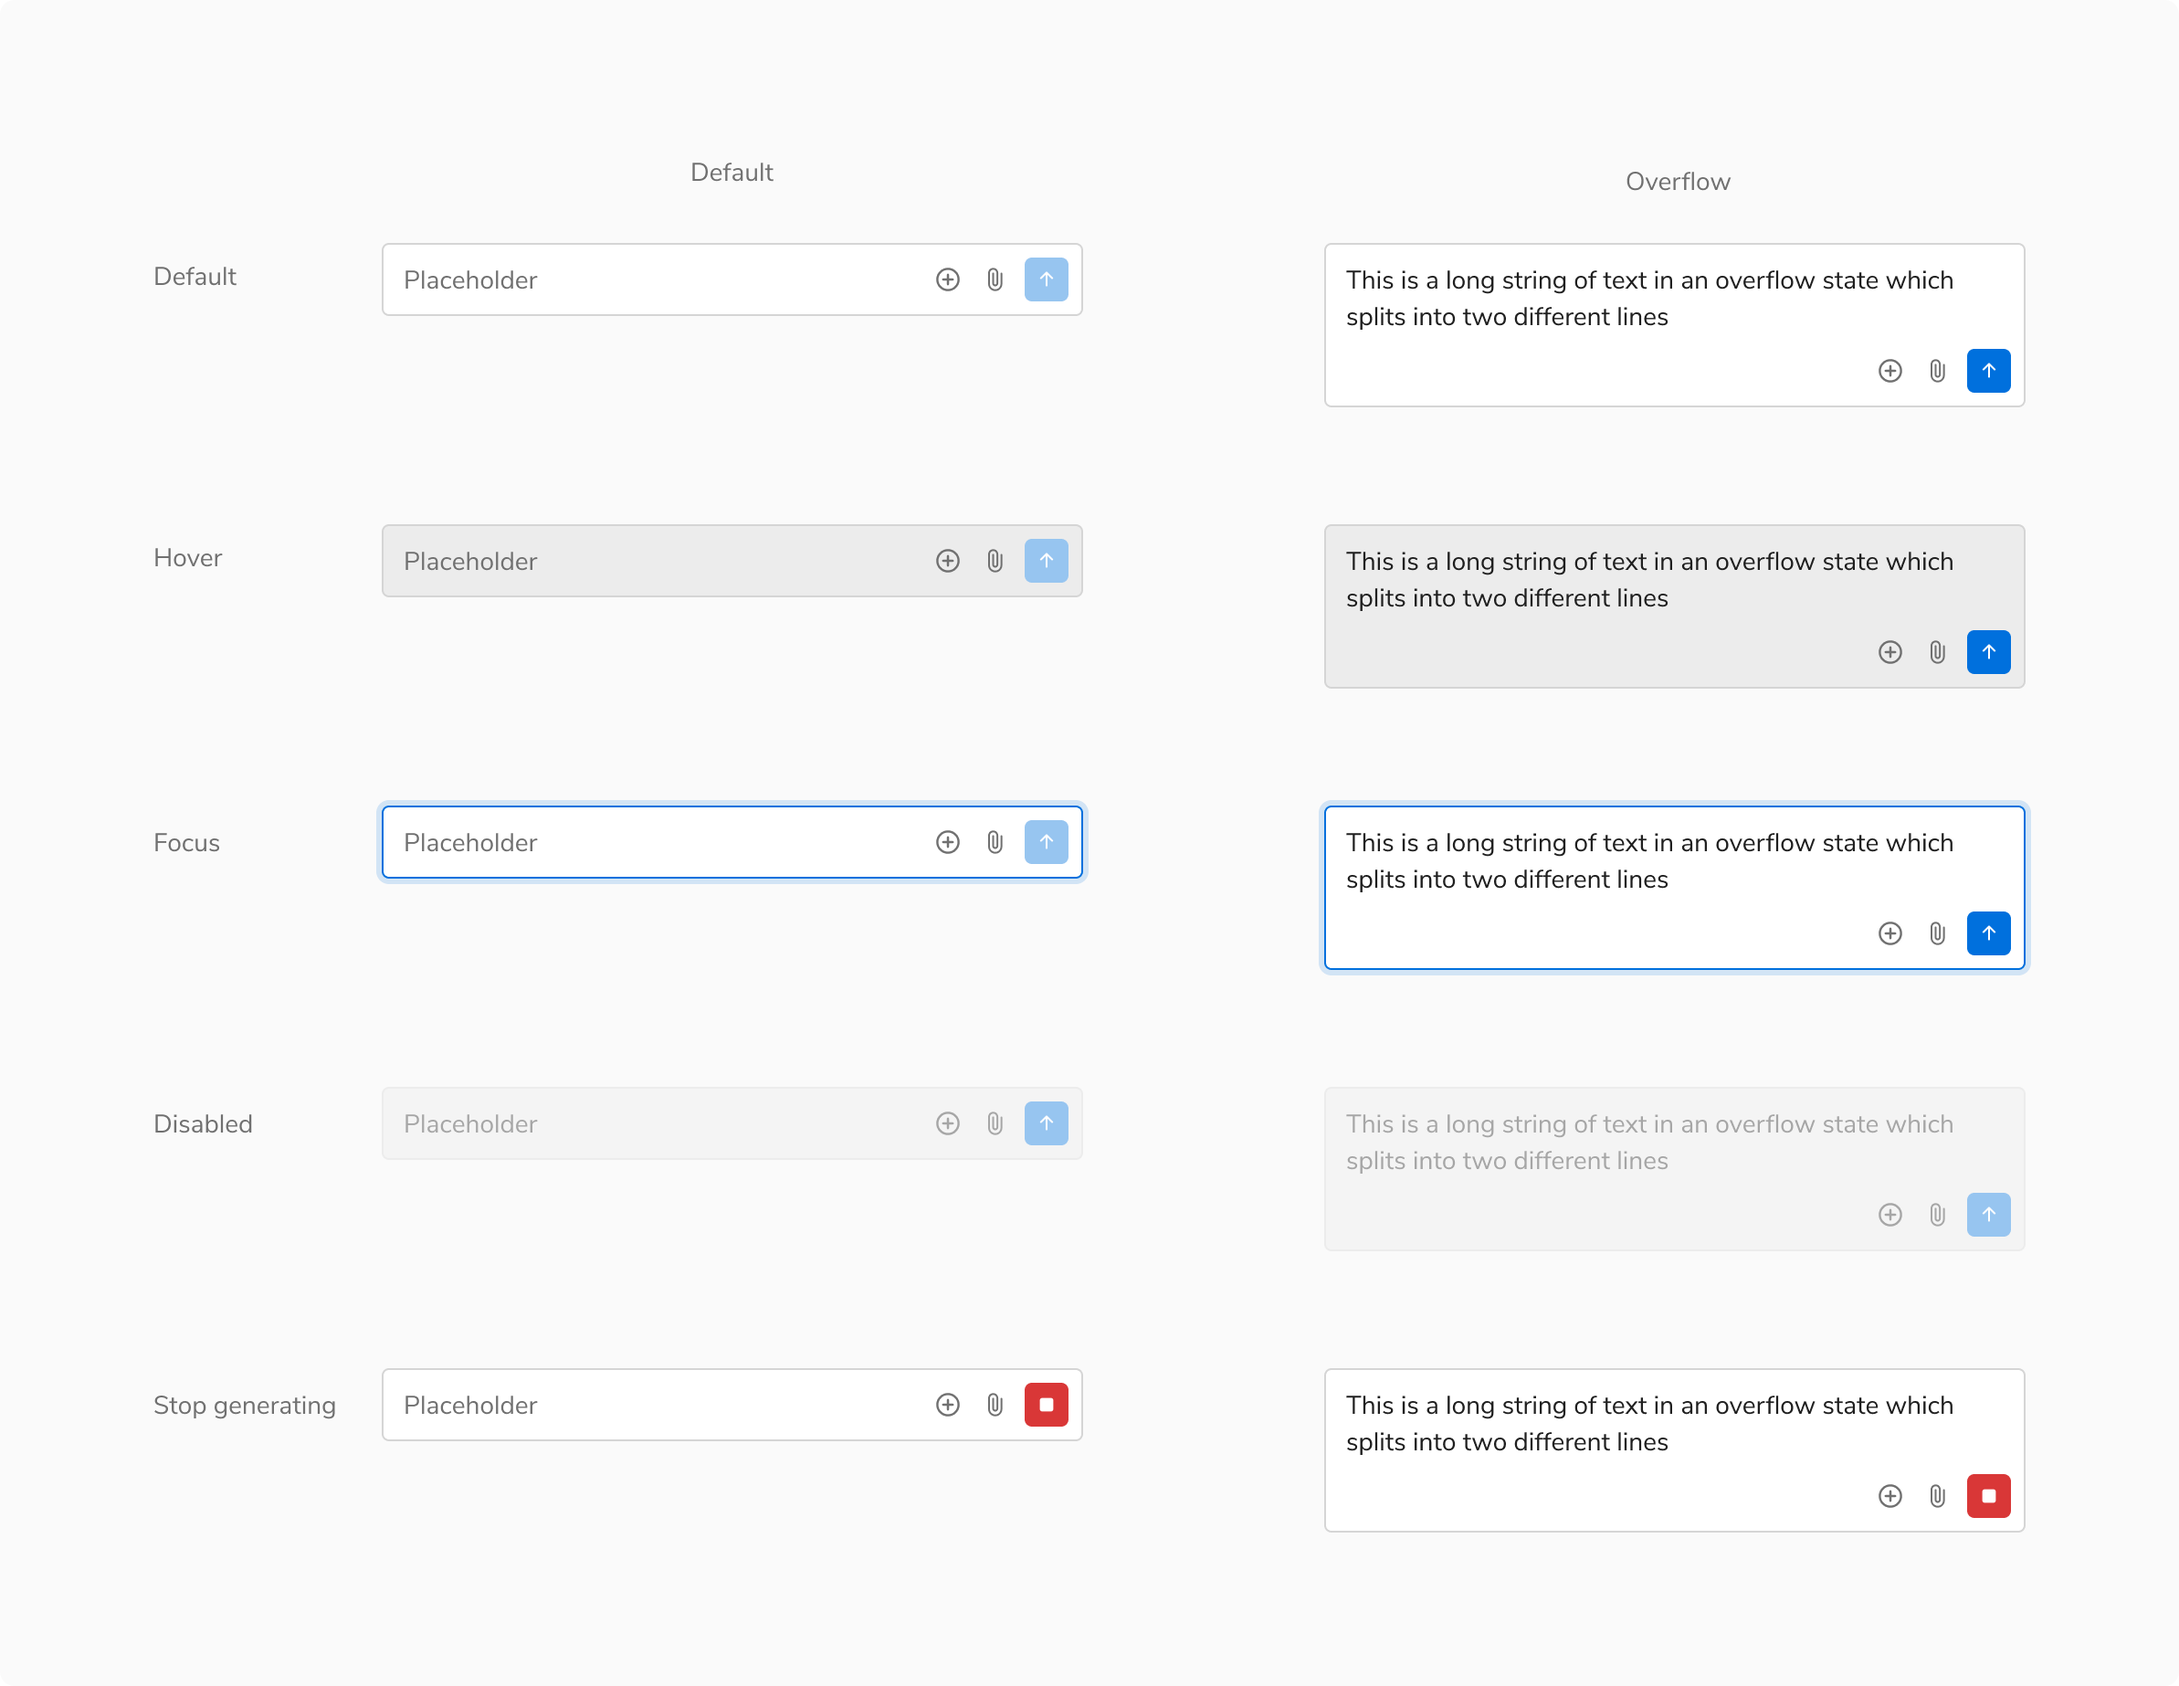
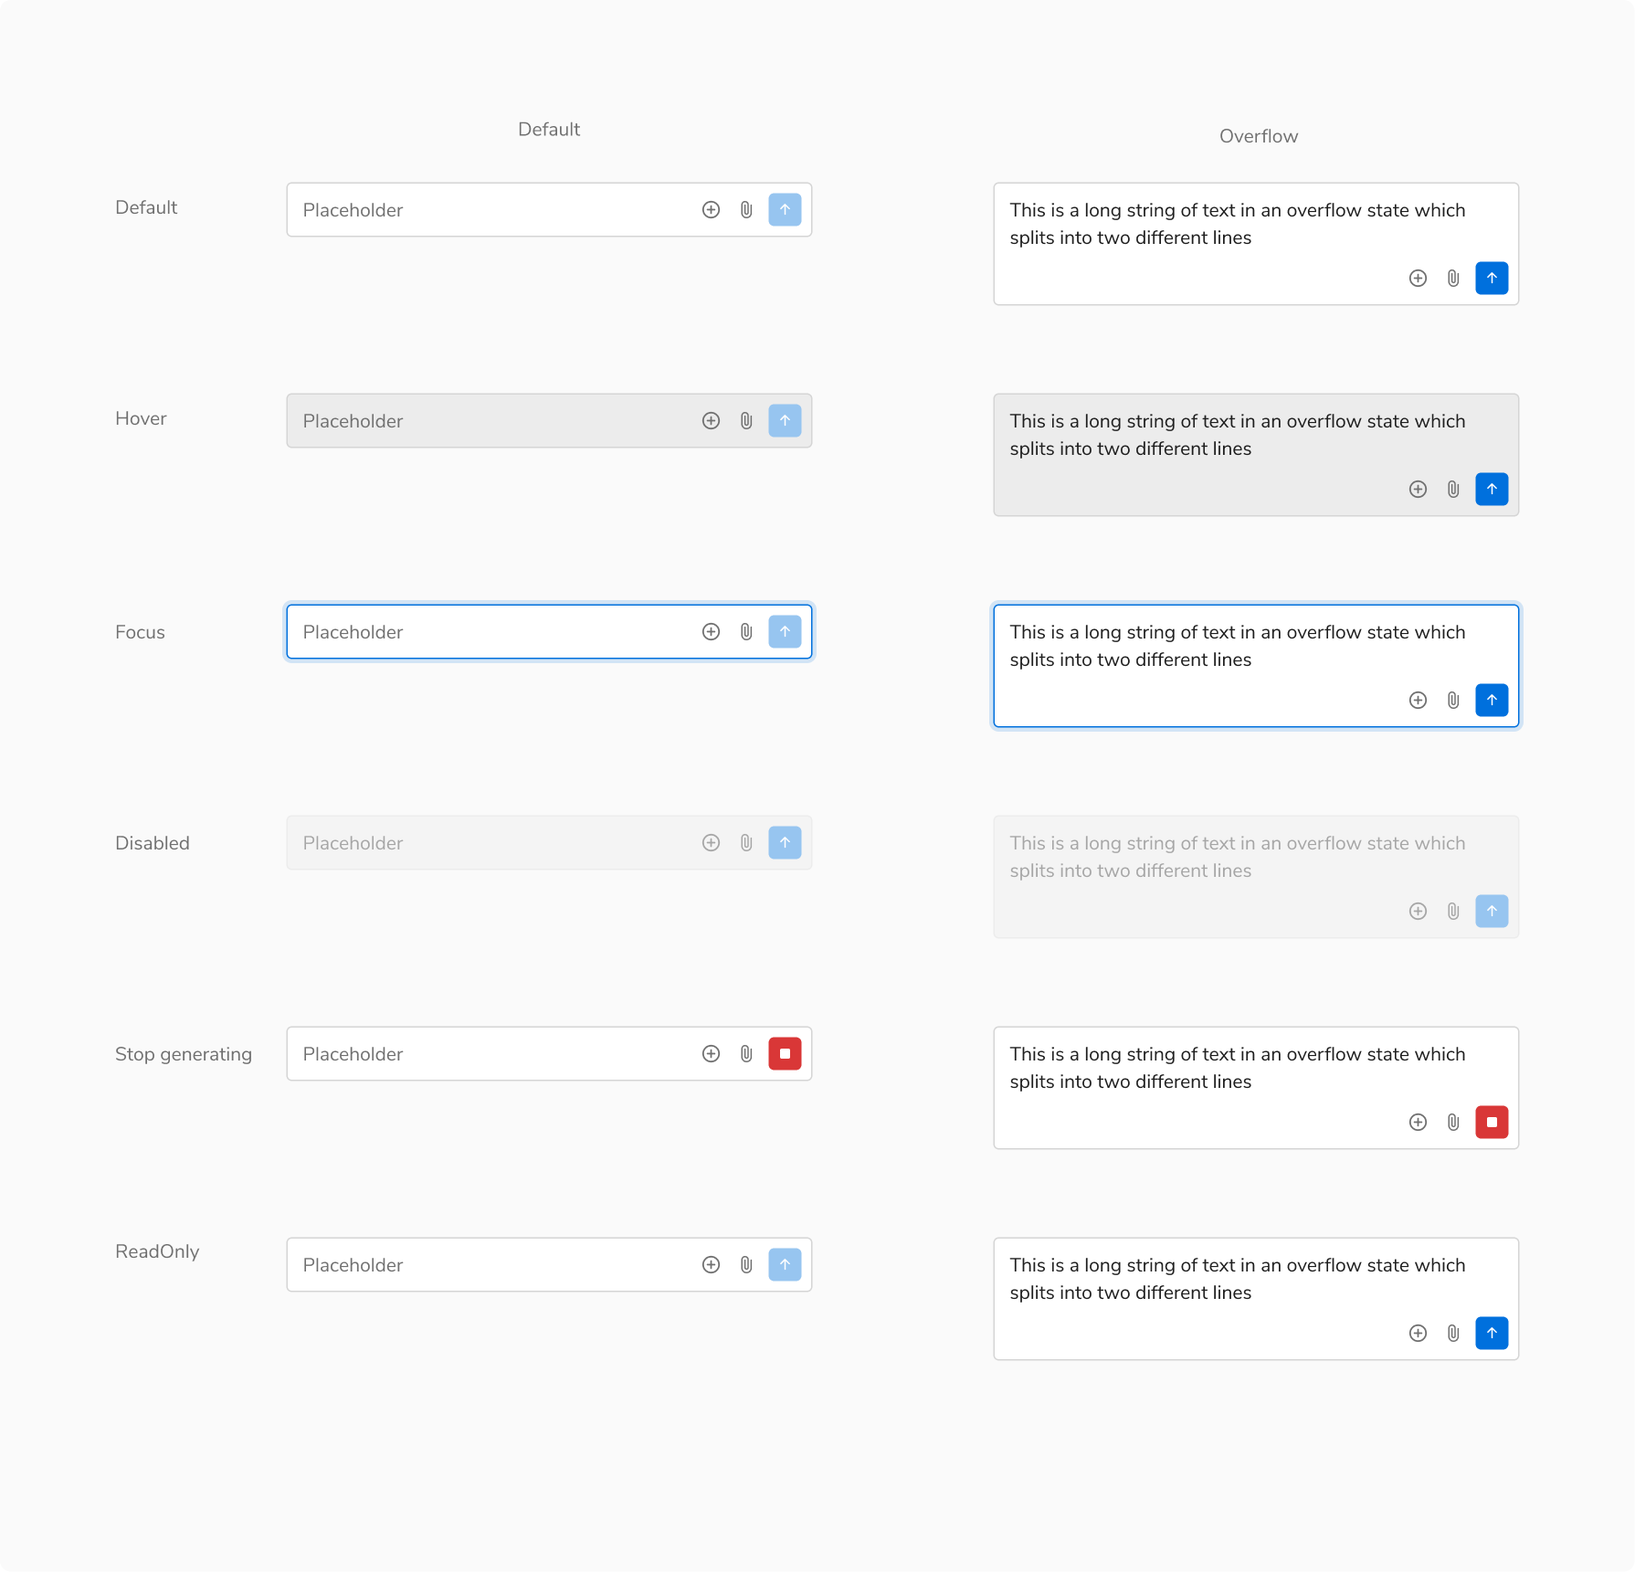
docs(chatInput): add readOnly state in chat input docs

diff --git a/css/src/components/chatInput.module.css b/css/src/components/chatInput.module.css
@@ -39,7 +39,6 @@
 
 .ChatInput-textarea {
   flex: 1;
-  /* height: 100%; */
   height: var(--spacing-60);
   width: 100%;
   resize: none;
@@ -57,6 +56,7 @@
   font-weight: var(--font-weight-normal);
   line-height: var(--font-height);
   font-size: var(--font-size);
+  color: var(--inverse);
 }
 
 .ChatInput-textarea::placeholder {
